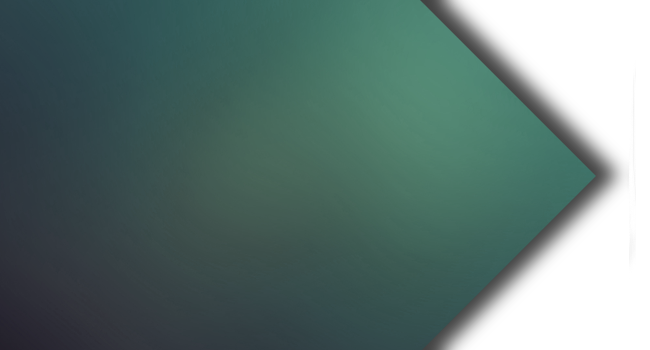
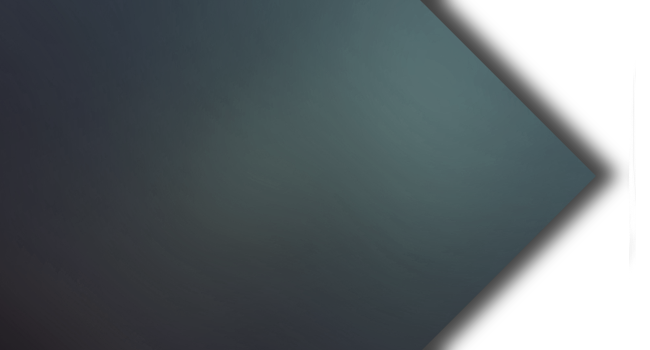
Немного изменена насыщенность изображений.

Changed region(s): [[0.2154, 0.0, 0.9231, 0.7143]]

diff --git a/src/index.html b/src/index.html
@@ -15,7 +15,7 @@
             <div id="header-mid"></div>
         </header>
         <div id="container">
-            text
+           kek 
         </div>
         <footer></footer>
     </body>

diff --git a/src/style.css b/src/style.css
@@ -39,5 +39,9 @@ header {
 }
 
 #container {
-    width: 100%;
+
+}
+
+footer {
+    height: 200px;
 }
